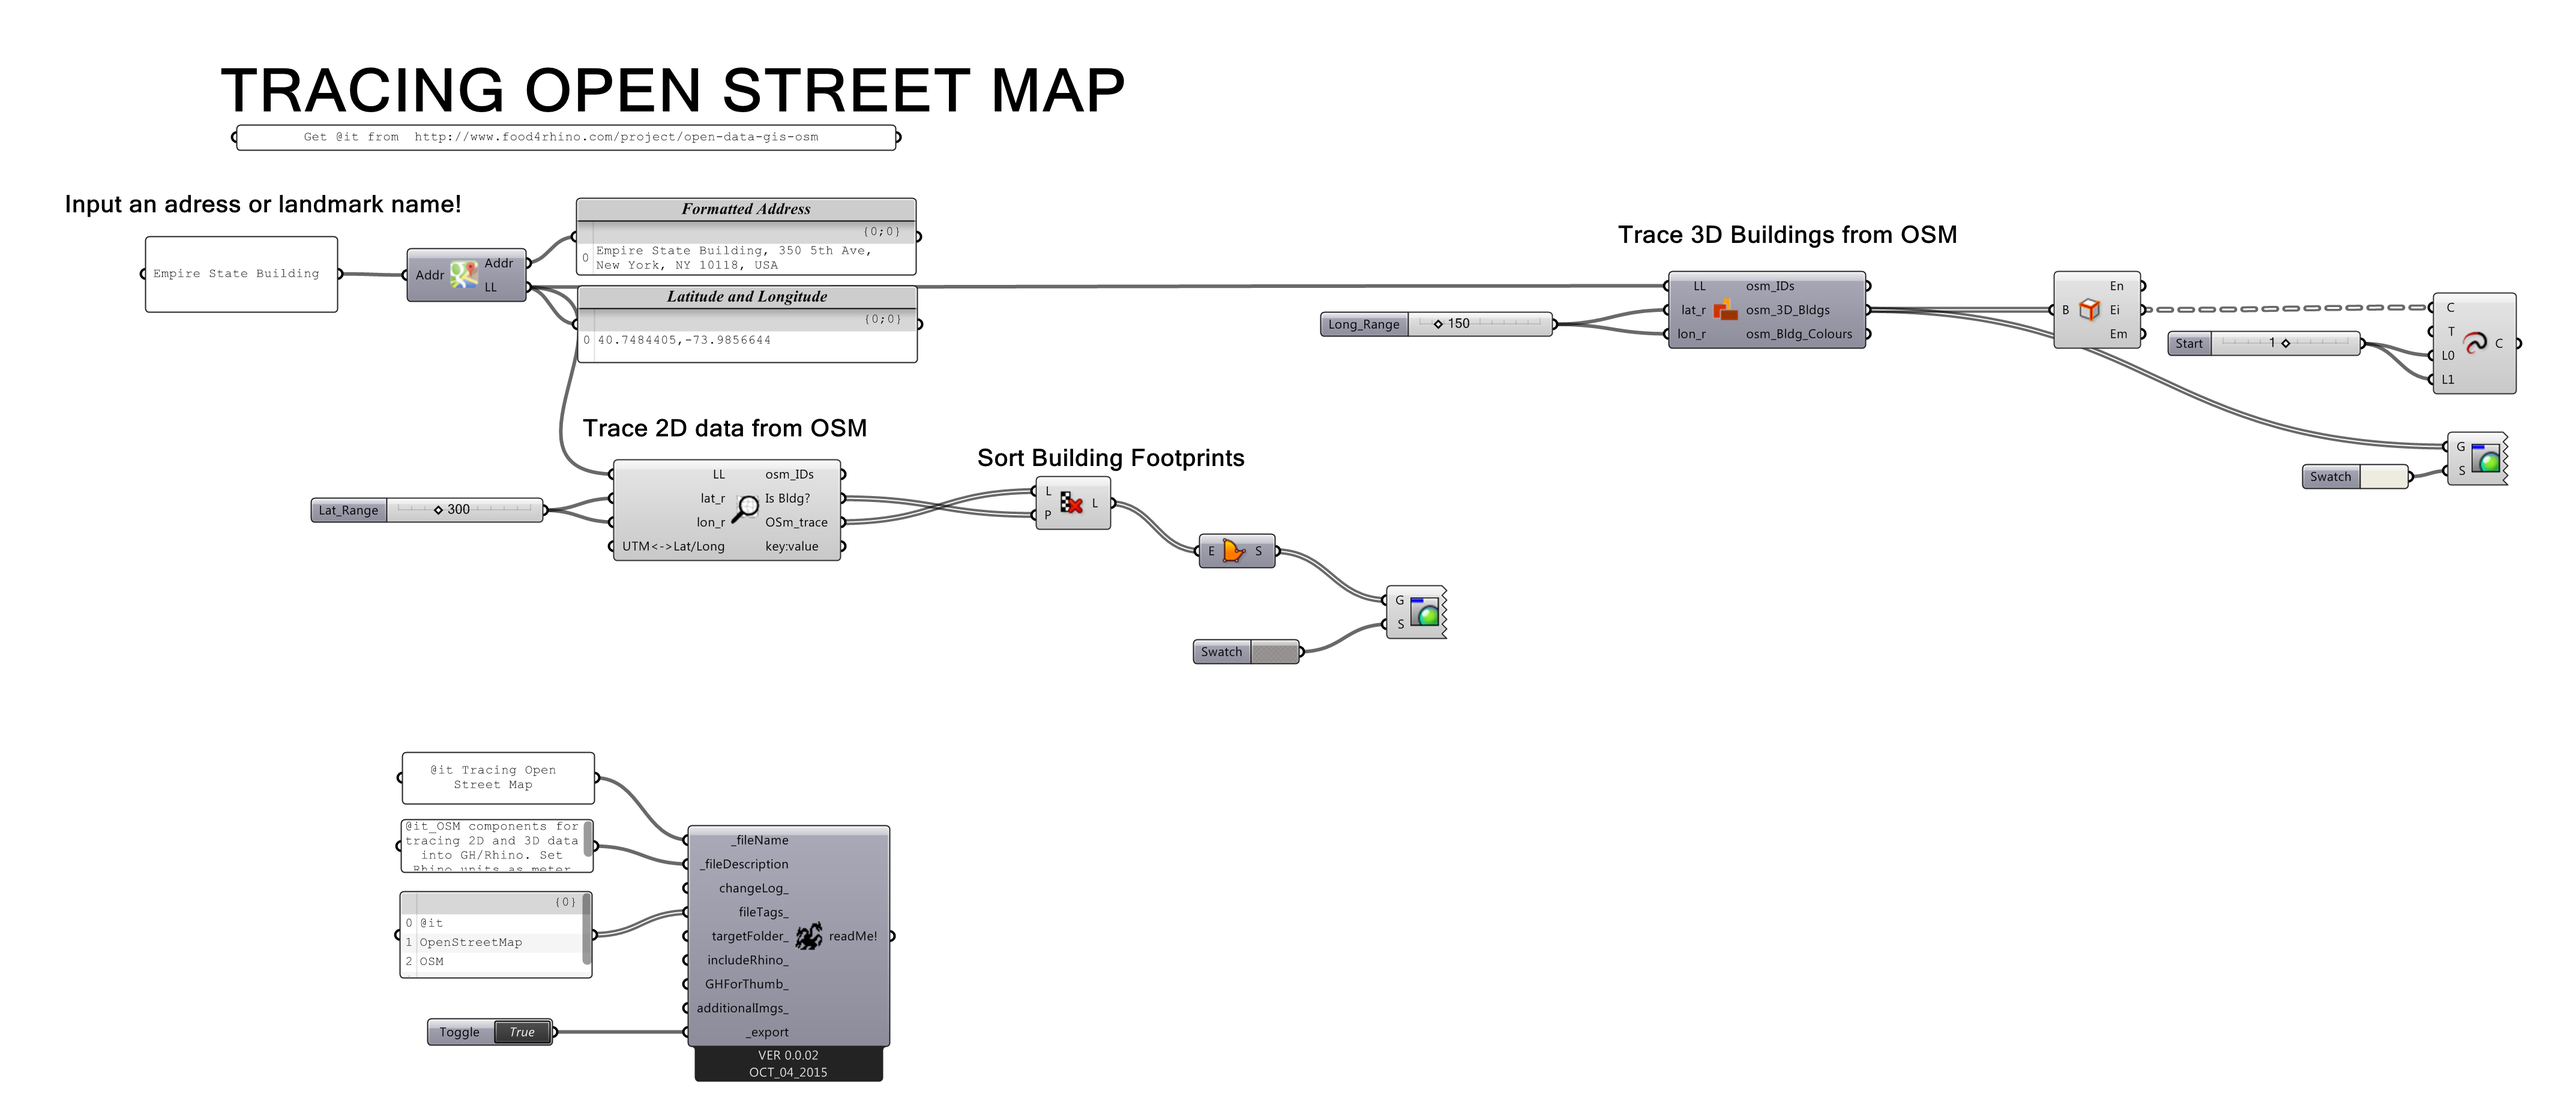
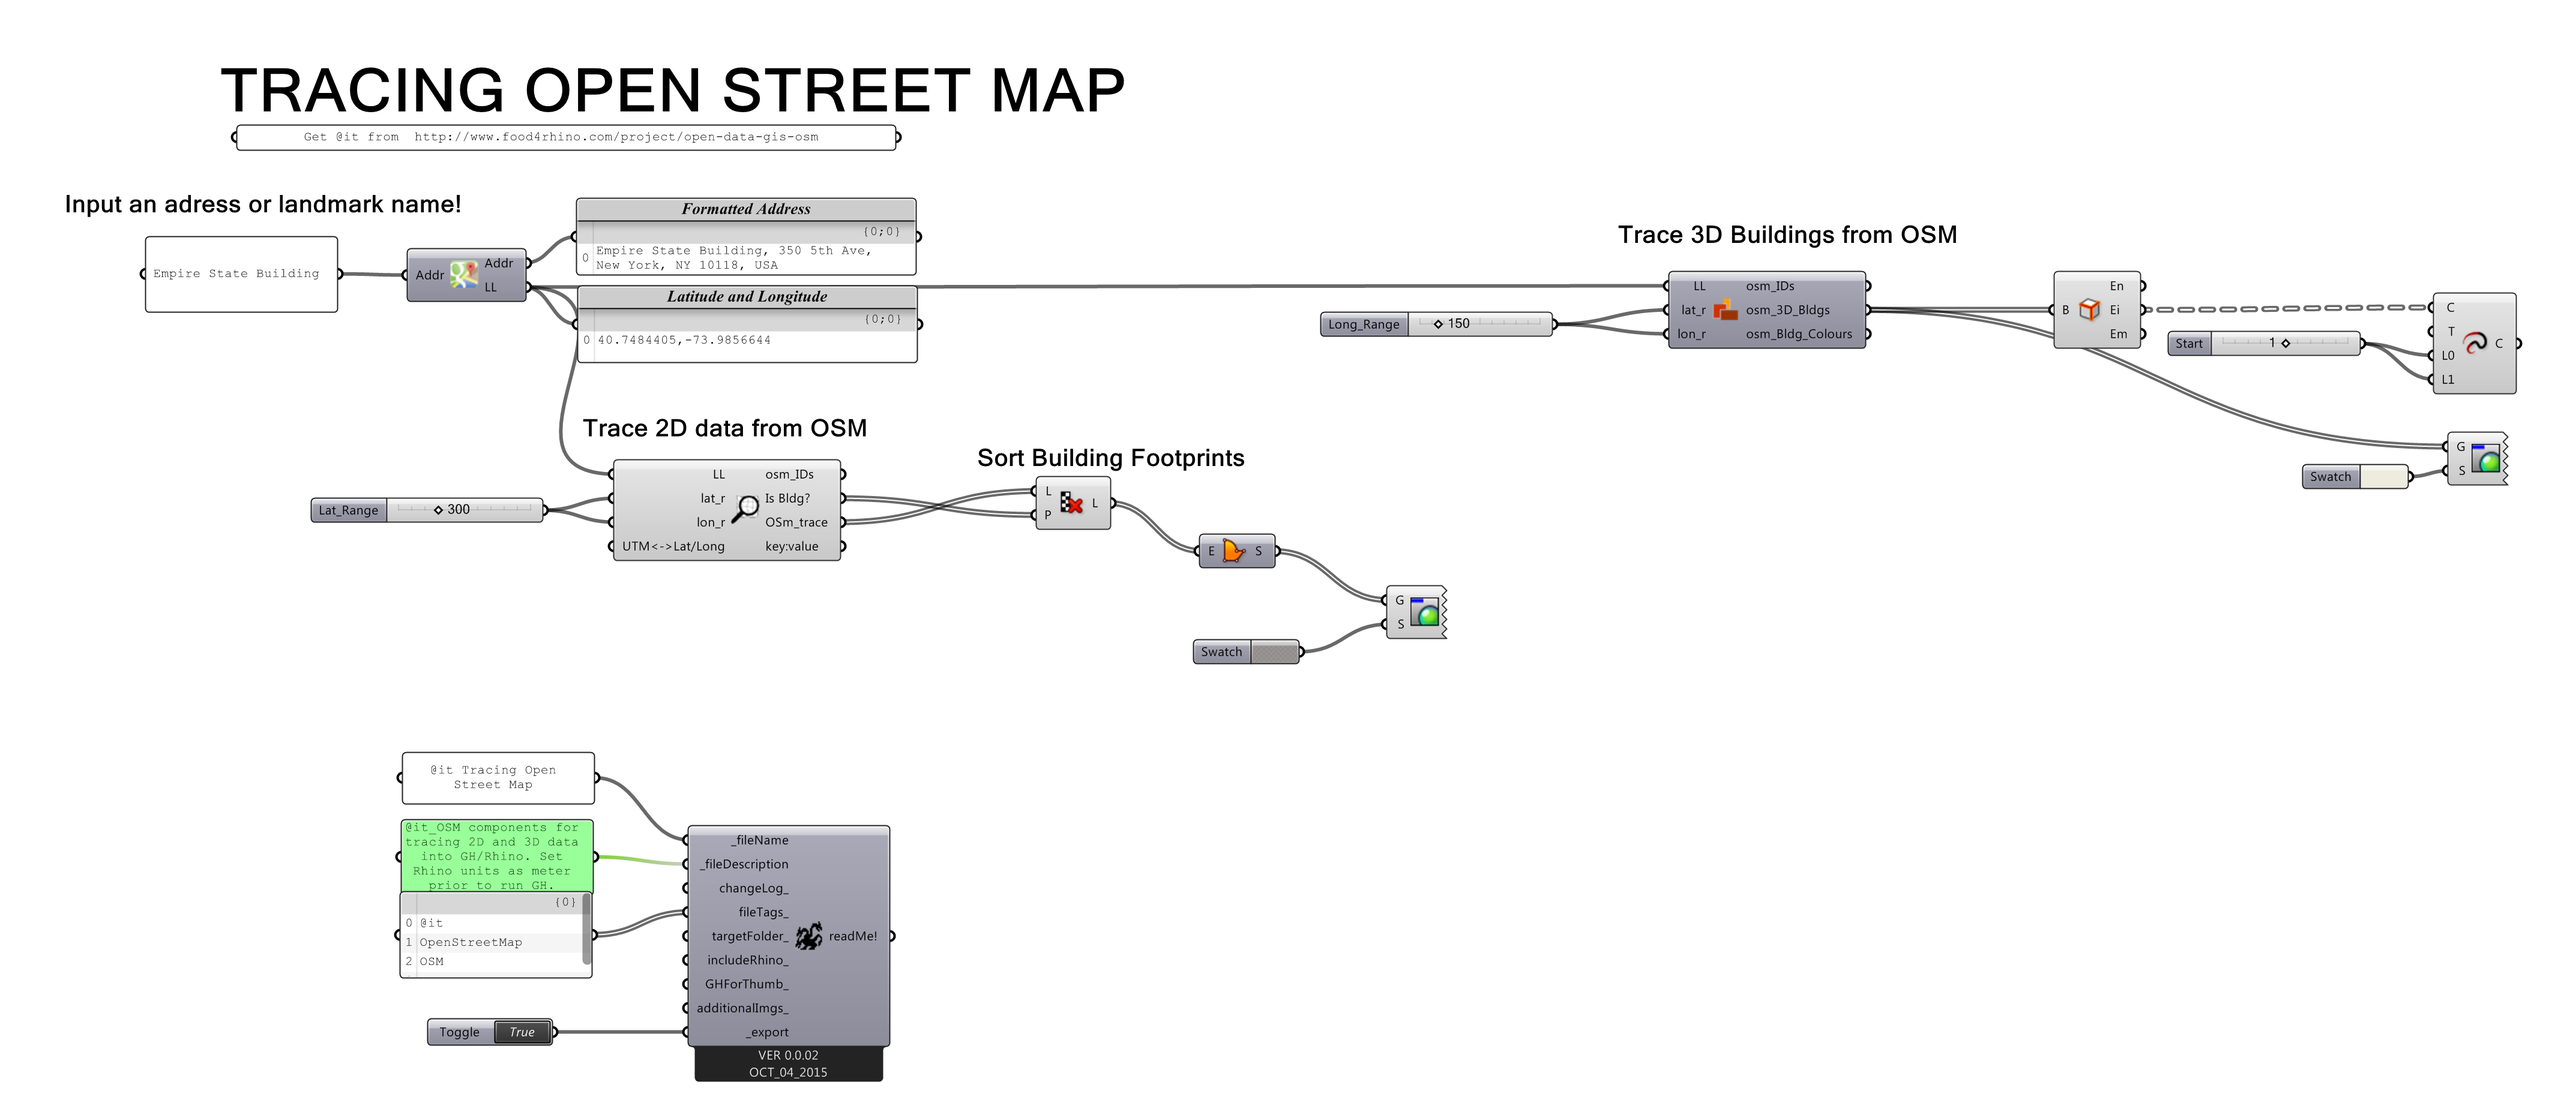
@it sample file _2

Changed region(s): [[0.1561, 0.7419, 0.2498, 0.8037]]

diff --git a/@it_NYC_AirRights/README.md b/@it_NYC_AirRights/README.md
@@ -1,0 +1,10 @@
+### Description 
+@it_ Open Geo Data Visualization in GH/Rhino. Visualize the Available Air rights of Manhattan, New York City
+
+This file has been submitted by [elcinertugrul](https://github.com/elcinertugrul)
+
+[Check out this example on Hydra!](http://hydrashare.github.io/hydra/viewer?owner=elcinertugrul&fork=hydra&id=@it_NYC_AirRights)
+### Tags 
+@it, Open Data, GIS, shape file, data visualization, NYC
+### Thumbnail 
+![Screenshot](https://raw.githubusercontent.com/elcinertugrul/hydra/master/@it_NYC_AirRights/thumbnail.png)

diff --git a/@it_Tracing_Open_Street_Map/README.md b/@it_Tracing_Open_Street_Map/README.md
@@ -1,5 +1,5 @@
 ### Description 
-@it_OSM components for tracing 2D and 3D data into GH/Rhino. Set Rhino units as meter prior to run RH.
+@it_OSM components for tracing 2D and 3D data into GH/Rhino. Set Rhino units as meter prior to run GH.
 
 This file has been submitted by [elcinertugrul](https://github.com/elcinertugrul)
 
